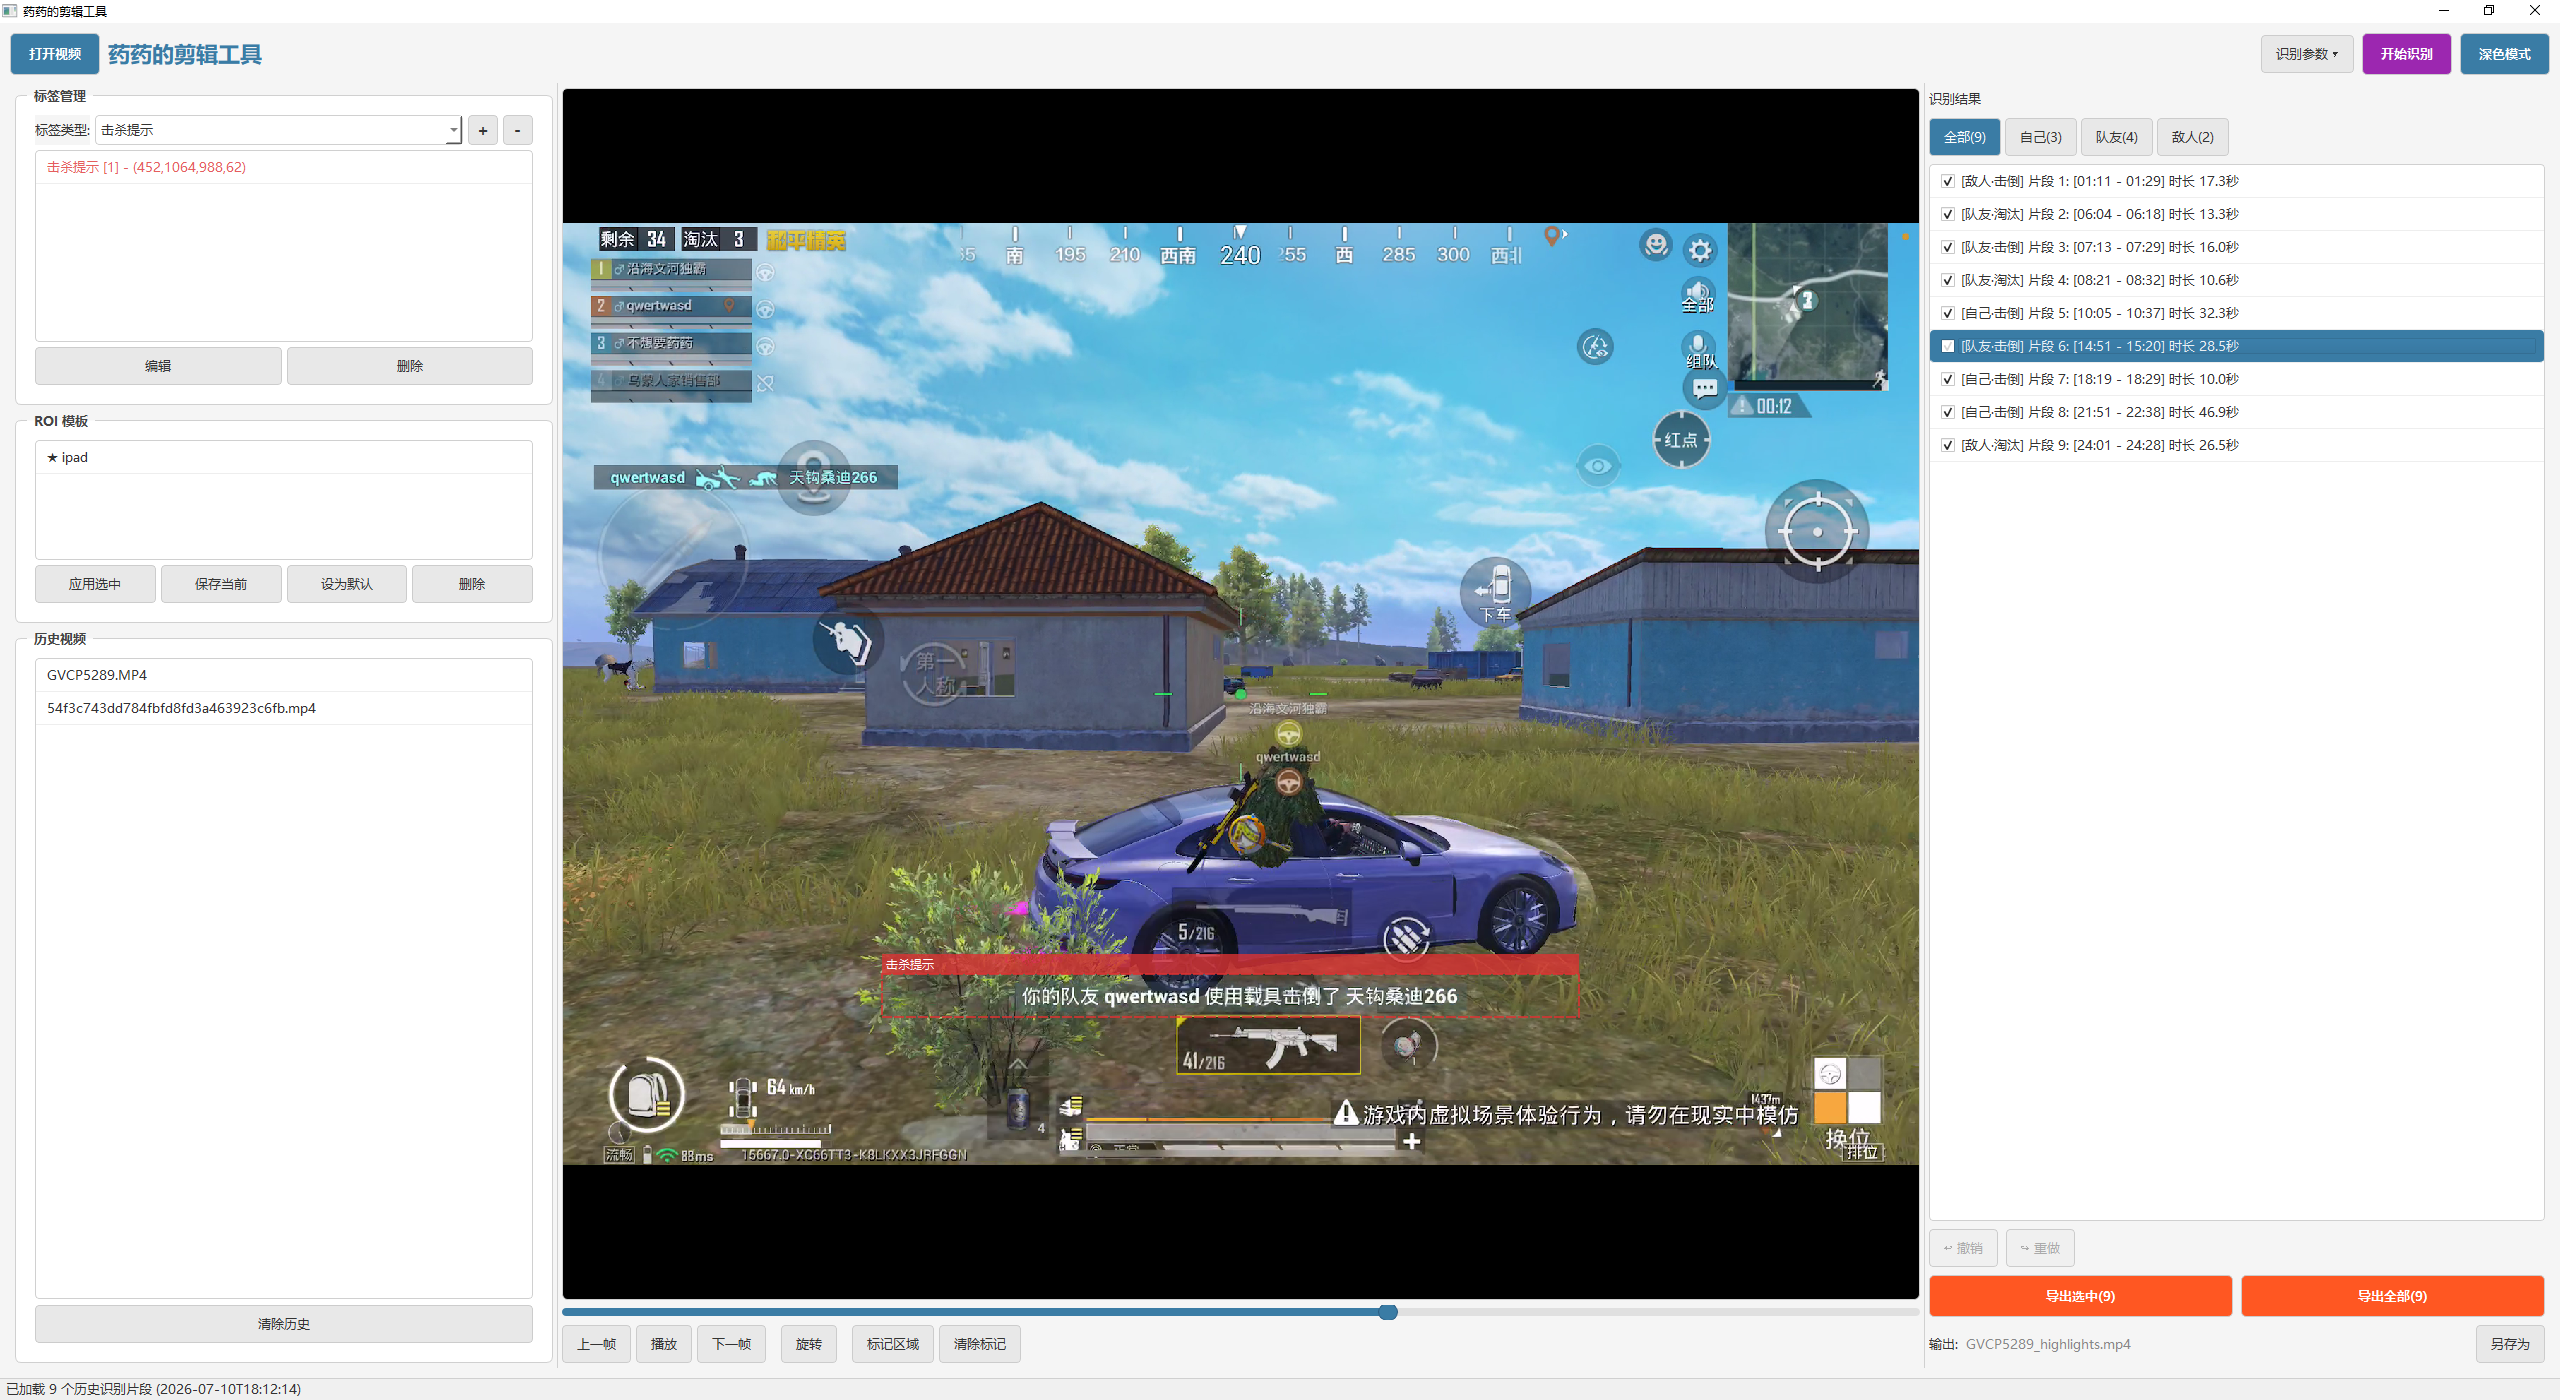
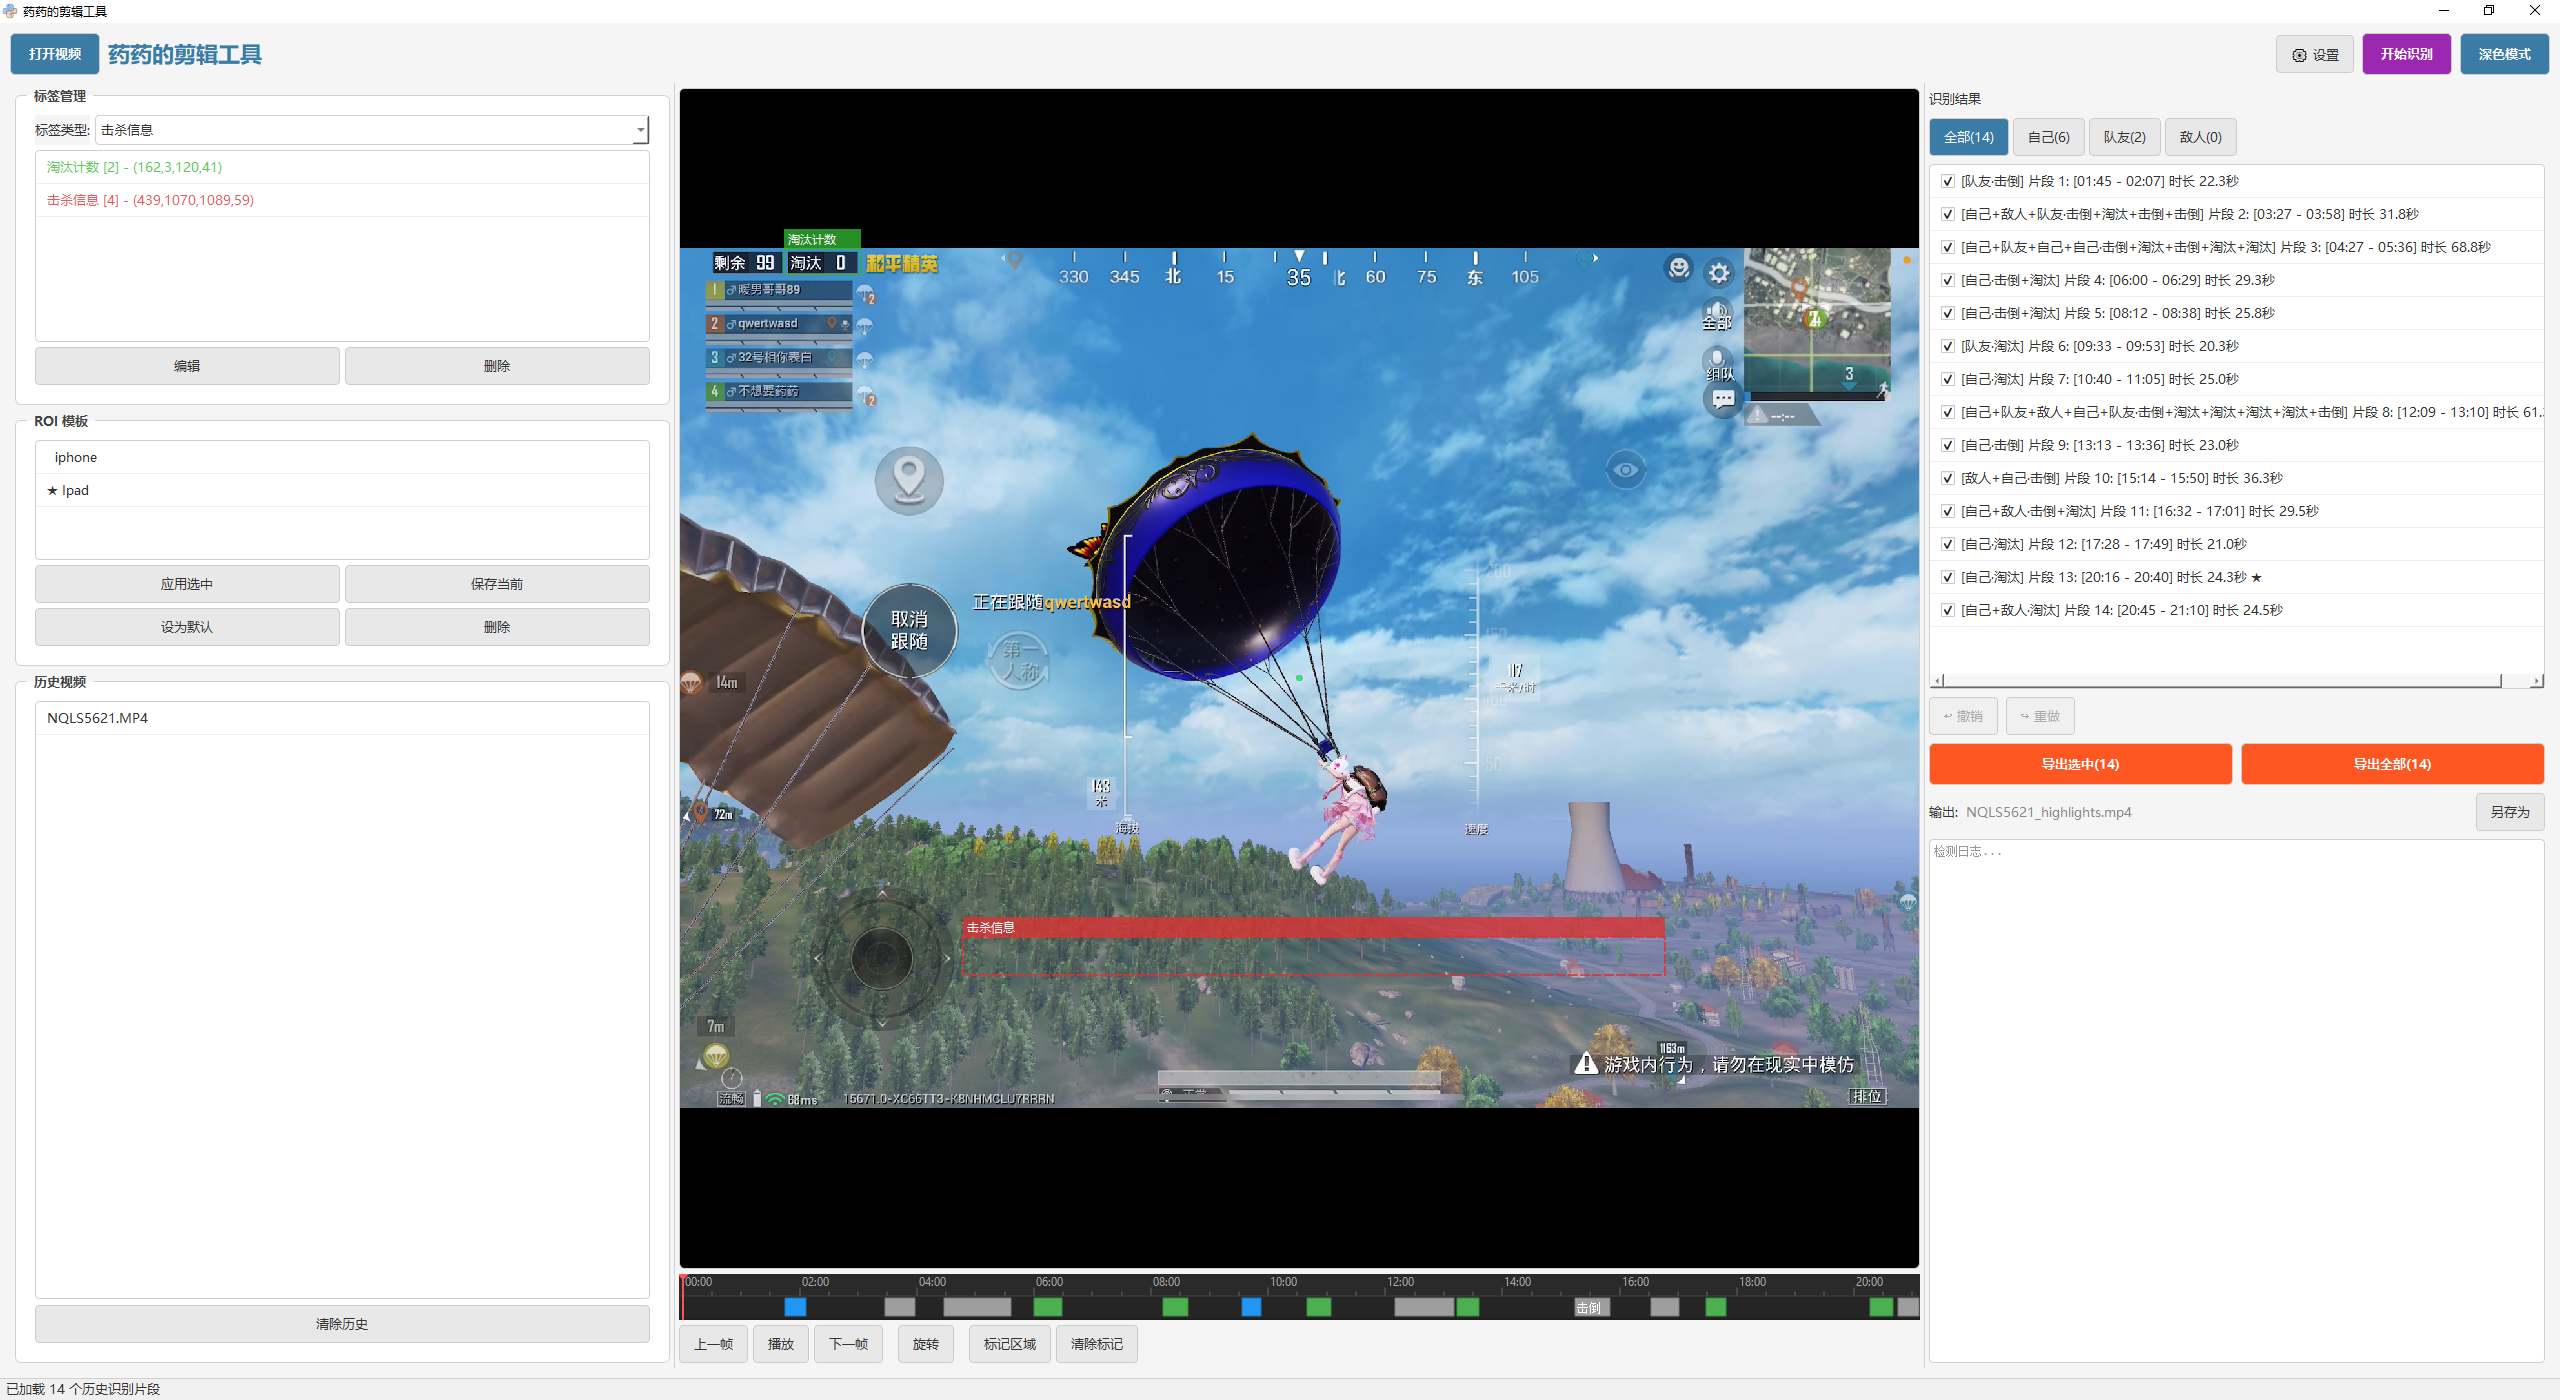
docs: update screenshot and README with new features
- Update GUI screenshot to reflect current UI
- Add timeline, logging system, settings to feature table
- Update architecture tree with new modules

diff --git a/README.md b/README.md
@@ -20,9 +20,11 @@ A desktop application that detects kill events in gameplay videos via OCR and ex
 |---|---|
 | Video Player / 视频播放器 | frame-by-frame, rotation, drag-and-drop, audio playback / 逐帧、旋转、拖拽、音频播放 |
 | Keyboard Shortcuts / 快捷键 | Space: play/pause, ←→: prev/next frame / 空格: 播放暂停, 方向键: 逐帧 |
+| Timeline / 时间轴 | ruler, clip markers, zoom, playhead drag, click-to-seek / 刻度尺、片段标记、缩放、游标拖拽 |
 | Smart Seek / 智能跳转 | double-click clip → jump 1.5s before trigger / 双击片段精准跳转 |
-| ROI Annotation / 区域标注 | multi-label boxes, YOLO-format export / 多标签框选、YOLO格式 |
-| OCR Detection / 文字识别 | EasyOCR + GPU acceleration, multi-threaded / GPU加速、多线程 |
+| ROI Annotation / 区域标注 | multi-label boxes, template presets / 多标签框选、模板预设 |
+| OCR Detection / 文字识别 | EasyOCR + GPU acceleration, multi-threaded pool / GPU加速、多线程流水线 |
+| Logging System / 日志系统 | file rotation + Qt bridge + crash capture / 文件轮转、GUI桥接、崩溃捕获 |
 | Smart Export / 智能导出 | FFmpeg + NVENC/AMF/QSV hardware encode / GPU硬件编码 |
 
 ![screenshot](GUI截图.png)
@@ -37,18 +39,22 @@ A desktop application that detects kill events in gameplay videos via OCR and ex
 └──────────┘    └──────────┘    └──────────┘
 
 app/
-├── core/          # Pure logic / 纯逻辑
-│   ├── player.py  # Video engine / 视频引擎
-│   ├── annotator  # Label model / 标注数据模型
-│   ├── keywords   # Pattern matching / 关键词匹配
-│   ├── detector   # OCR pipeline / OCR流水线
-│   └── exporter   # FFmpeg engine / 导出引擎
-├── ui/            # PySide6 GUI
-│   ├── main_window  # Main window / 主窗口
-│   ├── video_player # Player widget / 播放器
-│   └── overlay      # Annotation overlay / 标注层
-└── workers/       # QThread workers / 后台线程
-cli.py           # CLI tool / 命令行工具
+├── core/            # Pure logic / 纯逻辑
+│   ├── player.py    # Video engine / 视频引擎
+│   ├── annotator.py # Label model / 标注数据模型
+│   ├── keywords.py  # Pattern matching / 关键词匹配
+│   ├── detector.py  # OCR pipeline / OCR流水线
+│   └── exporter.py  # FFmpeg engine / 导出引擎
+├── ui/              # PySide6 GUI
+│   ├── main_window.py  # Main window / 主窗口
+│   ├── video_player.py # Player widget / 播放器
+│   ├── timeline.py     # Timeline widget / 时间轴
+│   ├── overlay.py      # Annotation overlay / 标注层
+│   └── log_window.py   # Log viewer / 日志查看器
+├── utils/           # Utilities / 工具
+│   └── logger.py    # Logging system / 日志系统
+└── workers/         # QThread workers / 后台线程
+cli.py             # CLI tool / 命令行工具
 ```
 
 ## Quick Start | 快速开始
